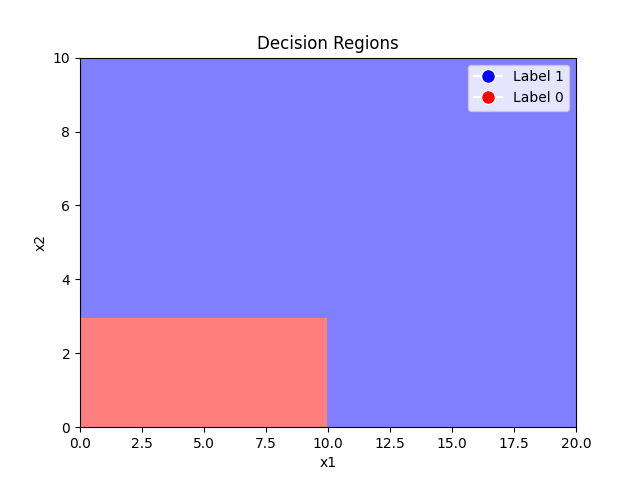
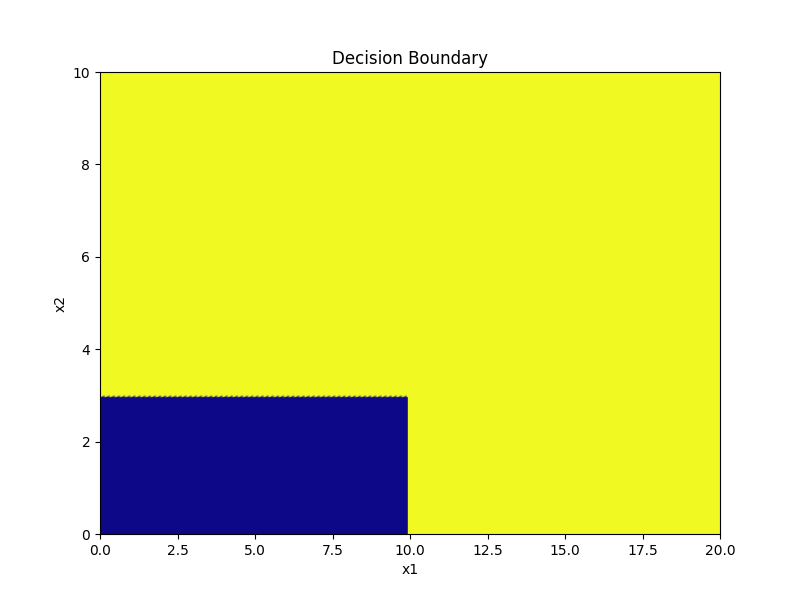
update2

diff --git a/HW2/DecisionTree.py b/HW2/DecisionTree.py
@@ -1,6 +1,9 @@
 import numpy as np
 from collections import Counter
 import matplotlib.pyplot as plt
+from sklearn.tree import DecisionTreeClassifier
+from sklearn.metrics import accuracy_score
+from scipy.interpolate import lagrange
 
 class TreeNode:
     def __init__(self, split_feature=None, threshold=None, left=None, right=None, label=None):
@@ -77,6 +80,11 @@ def read_data(file_path):
             data.append([x1, x2, y])
         return np.array(data)
 
+##########################################################################################
+# Code above are code for decision tree
+# Code below are code for individual questions
+##########################################################################################
+
 
 def question_2_2():
     # Generate the training set
@@ -142,7 +150,7 @@ def scatter_plot_from_dataset(data):
     plt.show()
 
 
-def draw_uniform_points(tree, x1_interval, x2_interval, num_points):
+def draw_uniform_points(tree, x1_interval, x2_interval, num_points,file_path='test.png'):
     x1_values = np.linspace(x1_interval[0], x1_interval[1], num_points)
     x2_values = np.linspace(x2_interval[0], x2_interval[1], num_points)
 
@@ -155,8 +163,24 @@ def draw_uniform_points(tree, x1_interval, x2_interval, num_points):
     plt.xlabel('x1')
     plt.ylabel('x2')
     plt.title('Decision Boundary')
+    plt.savefig(file_path)
     plt.show()
 
+
+def count_nodes(node):
+    if node is None:
+        return 0
+    return 1 + count_nodes(node.left) + count_nodes(node.right)
+
+
+def compute_error_rate(tree, X, y):
+    num_misclassified = 0
+    for i in range(len(X)):
+        prediction = predict(tree, X[i])
+        if prediction != y[i]:
+            num_misclassified += 1
+    error_rate = num_misclassified / len(X)
+    return error_rate
 
 
 if __name__ == '__main__':
@@ -175,24 +199,27 @@ if __name__ == '__main__':
 
 
     # question_2_4
-    # data = read_data('Homework 2 data/D3leaves.txt')
-    # X = data[:, :-1]
-    # y = data[:, -1]
-    # tree = build_tree(X, y)
-    # print("Rules:")
-    # convert_tree_to_rules(tree)
+    data = read_data('Homework 2 data/D3leaves.txt')
+    X = data[:, :-1]
+    y = data[:, -1]
+    tree = build_tree(X, y)
+    draw_uniform_points(tree, [0, 20], [0, 10], 500, 'question_2_4.png')
+    print("Rules:")
+    convert_tree_to_rules(tree)
 
     # question_2_5
     # data = read_data('Homework 2 data/D1.txt')
     # X = data[:, :-1]
     # y = data[:, -1]
     # tree = build_tree(X, y)
+    # print(count_nodes(tree))
     # print("Rules:")
     # convert_tree_to_rules(tree)
     # data = read_data('Homework 2 data/D2.txt')
     # X = data[:, :-1]
     # y = data[:, -1]
     # tree = build_tree(X, y)
+    # print(count_nodes(tree))
     # print("Rules:")
     # convert_tree_to_rules(tree)
 
@@ -201,30 +228,74 @@ if __name__ == '__main__':
     # scatter_plot_from_dataset(data)
     # data = read_data('Homework 2 data/D2.txt')
     # scatter_plot_from_dataset(data)
-    data = read_data('Homework 2 data/D1.txt')
-    X = data[:, :-1]
-    y = data[:, -1]
-    tree = build_tree(X, y)
-    x1_interval = (0, 1)
-    x2_interval = (0, 1)
-    num_points = 200
-    draw_uniform_points(tree, x1_interval, x2_interval, num_points)
-    data = read_data('Homework 2 data/D2.txt')
-    X = data[:, :-1]
-    y = data[:, -1]
-    tree = build_tree(X, y)
-    x1_interval = (0, 1)
-    x2_interval = (0, 1)
-    num_points = 200
-    draw_uniform_points(tree, x1_interval, x2_interval, num_points)
-
-    # data = read_data('Homework 2 data/Druns.txt')
-    #
+    # data = read_data('Homework 2 data/D1.txt')
     # X = data[:, :-1]
     # y = data[:, -1]
-    #
-    # # Build the tree
     # tree = build_tree(X, y)
-    # new_data_point = np.array([1.493761, -0.753345])
-    # prediction = predict(tree, new_data_point)
-    # print(f"Predicted class: {prediction}")
+    # x1_interval = (0, 1)
+    # x2_interval = (0, 1)
+    # num_points = 200
+    # draw_uniform_points(tree, x1_interval, x2_interval, num_points)
+    # data = read_data('Homework 2 data/D2.txt')
+    # X = data[:, :-1]
+    # y = data[:, -1]
+    # tree = build_tree(X, y)
+    # x1_interval = (0, 1)
+    # x2_interval = (0, 1)
+    # num_points = 200
+    # draw_uniform_points(tree, x1_interval, x2_interval, num_points)\
+
+    # question_2_7
+    # data = read_data('Homework 2 data/Dbig.txt')
+    # indices = np.random.permutation(10000)
+    # training_set_8192 = data[indices[:8192]]
+    # X_train = training_set_8192[:, :-1]
+    # y_train = training_set_8192[:, -1]
+    #
+    # test_set = data[indices[8192:]]
+    # X_test = test_set[:, :-1]
+    # y_test = test_set[:, -1]
+    #
+    # training_sizes = [32, 128, 512, 2048, 8192]
+    #
+    # error_rates = []
+    #
+    # for size in training_sizes:
+    #     tree = build_tree(X_train[:size], y_train[:size])
+    #     error_rate = compute_error_rate(tree, X_test, y_test)
+    #     error_rates.append(error_rate)
+    #     print(f"training data size: {size}, number of nodes: {count_nodes(tree)}, error rate: {error_rate}")
+    #     draw_uniform_points(tree, (-1.5, 1.5), (-1.5, 1.5), 500, f"question_2_7_{size}.png")
+    #
+    # # Plotting
+    # plt.figure(figsize=(10, 6))
+    # plt.plot(training_sizes, error_rates, marker='o')
+    # plt.xlabel('Training Data Size')
+    # plt.ylabel('Error Rate')
+    # plt.title('Training Data Size vs. Error Rate')
+    # plt.grid(True)
+    # plt.savefig('question_2_7_1.png')
+    # plt.show()
+    #
+    #
+    # error_rate_sklearn = []
+    # # question 3
+    # for size in training_sizes:
+    #     tree_classifier = DecisionTreeClassifier()
+    #     tree_classifier.fit(X_train[:size], y_train[:size])
+    #     y_pred = tree_classifier.predict(X_test)
+    #     error_rate = 1 - accuracy_score(y_test, y_pred)
+    #     error_rate_sklearn.append(error_rate)
+    #     print(f"training data size: {size}, number of nodes: {tree_classifier.tree_.node_count}, error rate: {error_rate}")
+    #
+    # plt.figure(figsize=(10, 6))
+    # plt.plot(training_sizes, error_rate_sklearn, marker='o')
+    # plt.xlabel('Training Data Size')
+    # plt.ylabel('Error Rate')
+    # plt.title('Training Data Size vs. Error Rate in sklearn')
+    # plt.grid(True)
+    # plt.savefig('question_2_7_2.png')
+    # plt.show()
+
+    # question 4
+

diff --git a/HW2/test.py b/HW2/test.py
@@ -1,44 +1,48 @@
-import matplotlib.pyplot as plt
 import numpy as np
+from scipy.interpolate import lagrange
+import matplotlib.pyplot as plt
+# Step 1: Generate points
+np.random.seed(0)  # for reproducibility
+a, b = 0, 2*np.pi  # Interval
+n = 100  # Number of points
+x_train = np.sort(np.random.uniform(a, b, n))
 
-# Define the decision boundaries
-def rule1(x1):
-    return x1 >= 10.0
+# Step 2: Compute y = sin(x)
+y_train = np.sin(x_train)
 
-def rule2(x1, x2):
-    return (x1 < 10.0) and (x2 >= 3.0)
+# Step 3: Build Lagrange interpolation model
+f = lagrange(x_train, y_train)
 
-def rule3(x1, x2):
-    return (x1 < 10.0) and (x2 < 3.0)
+# Step 4: Generate test set
+x_test = np.sort(np.random.uniform(a, b, n))
+y_test = np.sin(x_test)
 
-# Generate a grid of points
-x1_values = np.linspace(0, 20, 400)
-x2_values = np.linspace(0, 10, 200)
-X1, X2 = np.meshgrid(x1_values, x2_values)
+# calculate error for lagrange interpolation
 
-# Apply rules to classify points
-Z = np.zeros_like(X1)
-for i in range(Z.shape[0]):
-    for j in range(Z.shape[1]):
-        if rule1(X1[i, j]):
-            Z[i, j] = 1
-        elif rule2(X1[i, j], X2[i, j]):
-            Z[i, j] = 1
-        elif rule3(X1[i, j], X2[i, j]):
-            Z[i, j] = 0
 
-# Create a filled contour plot
-plt.contourf(X1, X2, Z, alpha=0.5, levels=[-1, 0, 1], colors=('red', 'blue'))
+# Step 5: Compute errors
+train_error = np.mean((f(x_train) - y_train)**2)
+test_error = np.mean((f(x_test) - y_test)**2)
 
-# Add labels
-plt.xlabel('x1')
-plt.ylabel('x2')
+print(f"Train Error: {train_error}")
+print(f"Test Error: {test_error}")
+print("=" * 30)
+std_devs = [0.1, 0.5, 1.0]
 
-# Add legend
-plt.legend(handles=[plt.Line2D([0], [0], marker='o', color='w', markerfacecolor='blue', markersize=10, label='Label 1'),
-                    plt.Line2D([0], [0], marker='o', color='w', markerfacecolor='red', markersize=10, label='Label 0')])
+for std_dev in std_devs:
+    x_train_noisy = x_train + np.random.normal(0, std_dev, n)
+    y_train_noisy = np.sin(x_train_noisy)
 
-# Show the plot
-plt.title('Decision Regions')
-plt.show()
+    f_noisy = lagrange(x_train_noisy, y_train_noisy)
+
+    train_error_noisy = np.mean((f_noisy(x_train_noisy) - y_train_noisy) ** 2)
+    test_error_noisy = np.mean((f_noisy(x_test) - y_test) ** 2)
+
+    print(f"Standard Deviation: {std_dev}")
+    print(f"Train Error (Noisy): {train_error_noisy}")
+    print(f"Test Error (Noisy): {test_error_noisy}")
+    print("=" * 30)
+
+
+
 
